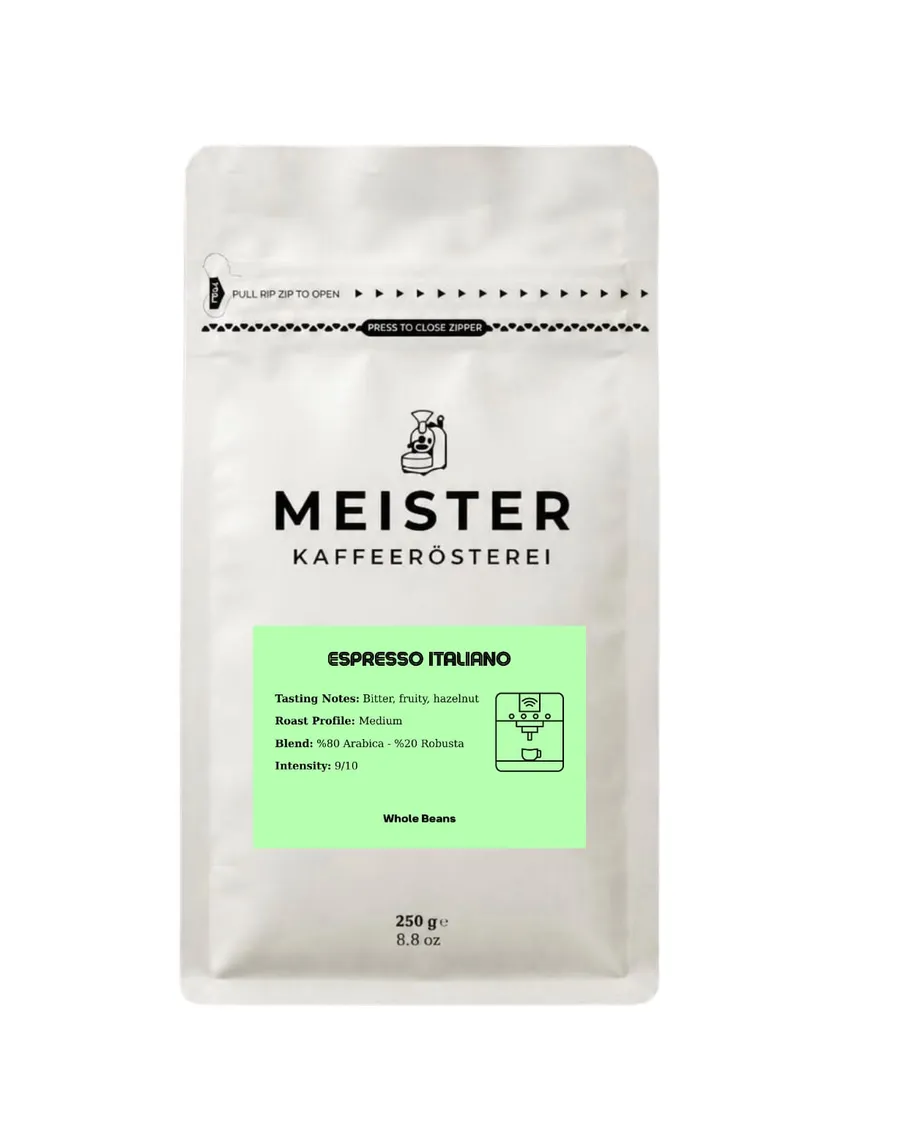
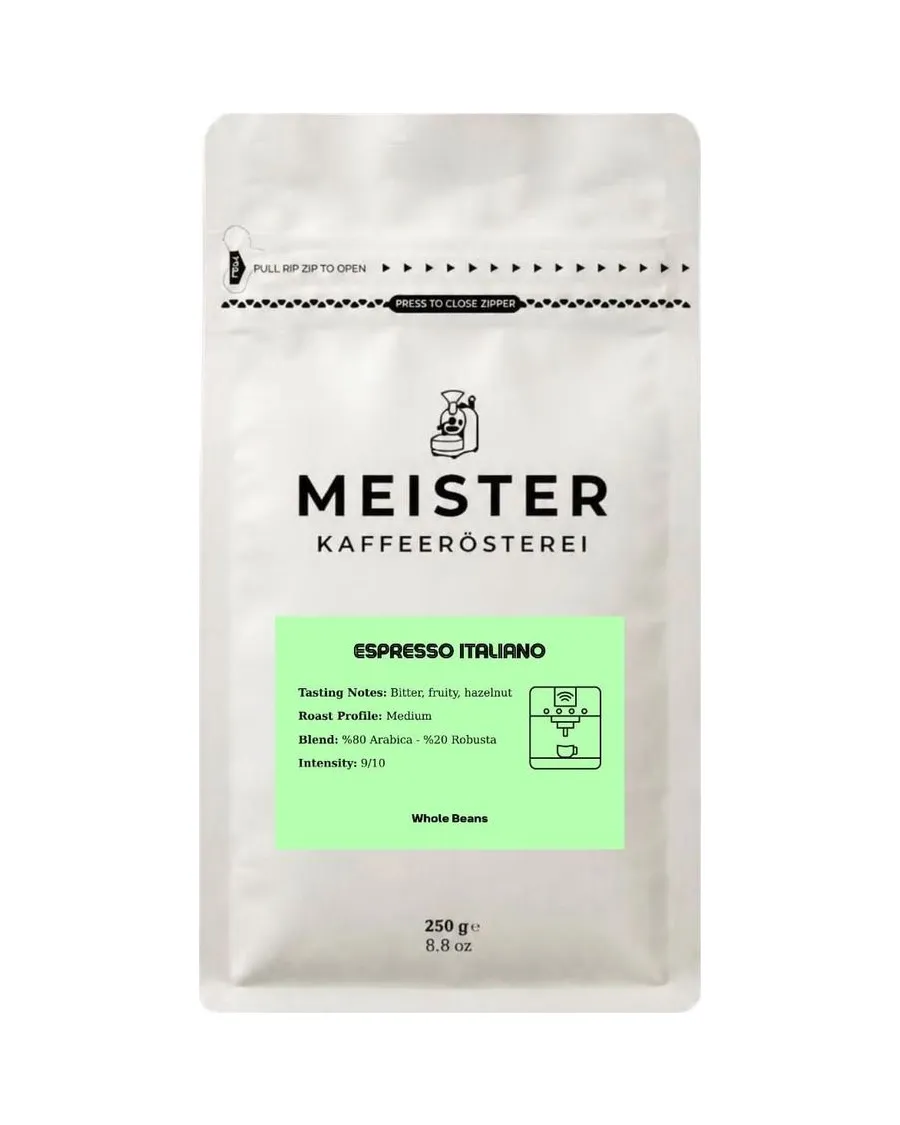
style: balance product grid and enlarge packshots
- shop grid uses auto-fit so cards fill the row instead of leaving empty
  columns on wide screens (4 products sat on the left at 1920px)
- build-product-photos: white-background packshots are trimmed and centred
  with a 10% margin (bag filled ~half the card before); other photos keep
  the attention-based 4:5 crop

diff --git a/public/assets/main.css b/public/assets/main.css
@@ -525,9 +525,11 @@ h1, h2, h3 { font-family: var(--font-display); font-weight: 600; margin: 0; }
 
 /* ---- Ürünlerimiz -------------------------------------------------------- */
 
+/* auto-fit: boş sütun açılmaz, kartlar satırı doldurur. auto-fill geniş
+   ekranda 5-6 sütun açıp 4 ürünü sola sıkıştırıyordu. */
 .shop-grid {
   display: grid;
-  grid-template-columns: repeat(auto-fill, minmax(min(240px, 100%), 1fr));
+  grid-template-columns: repeat(auto-fit, minmax(min(240px, 100%), 1fr));
   gap: var(--sp-5) var(--sp-3);
 }
 .shop-card {
